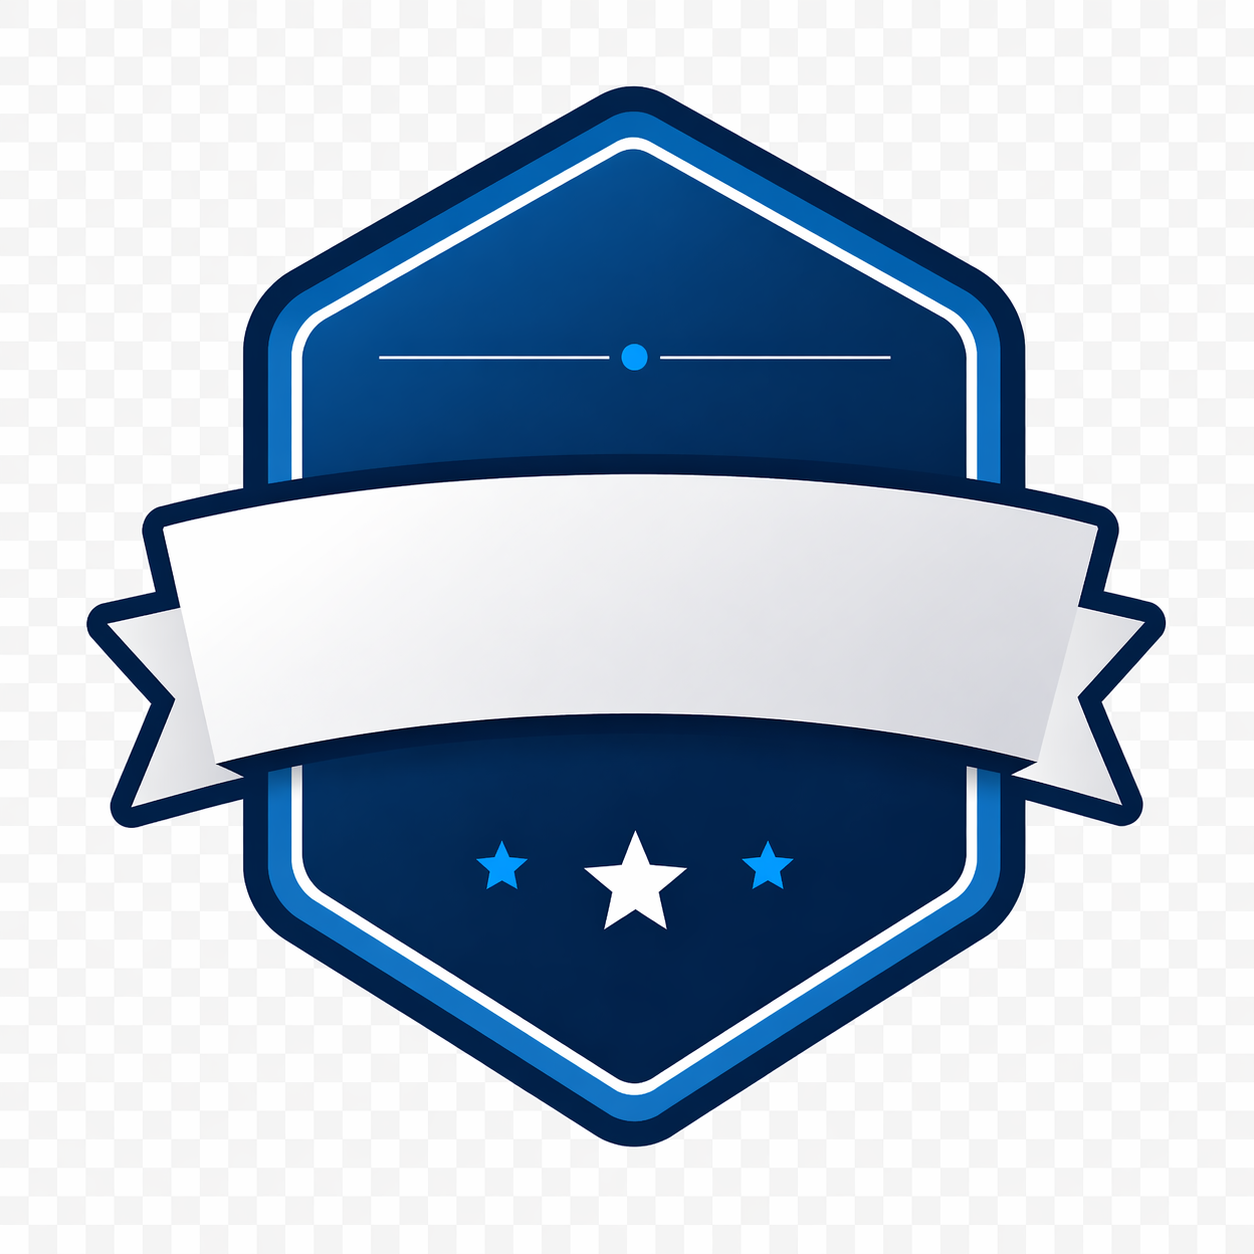
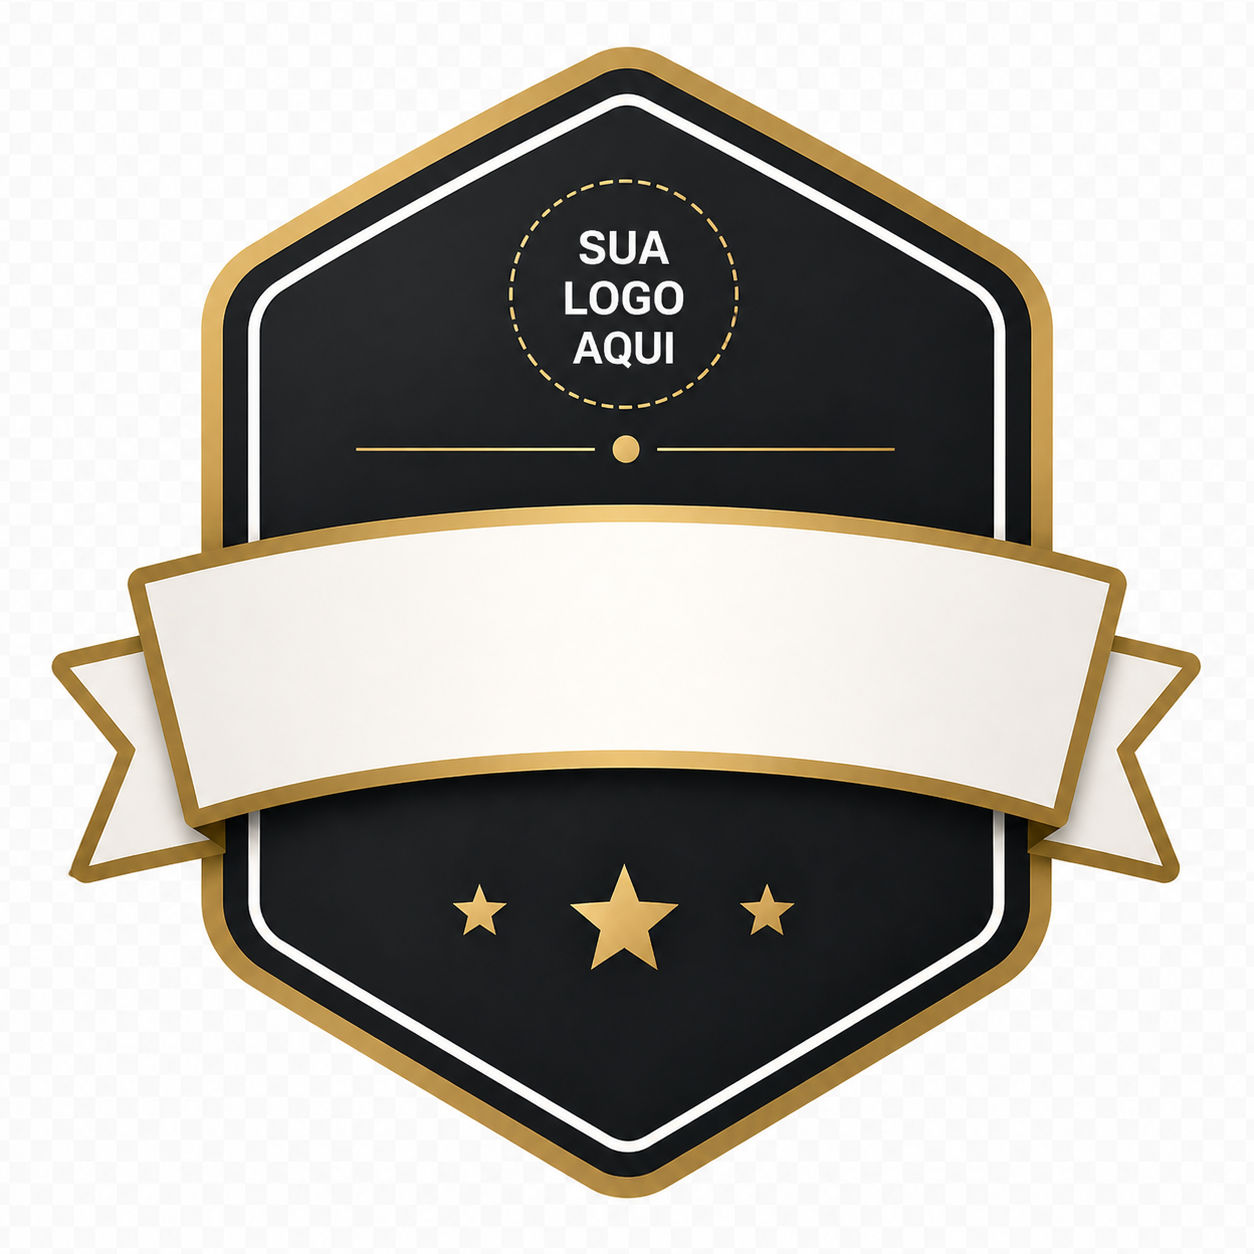
Support NTT templates and refactor template model
Remove inline logo rendering and refactor template model to support NTT-branded variants. BadgeImageGenerator: removed the block that drew logos (logo handling will be addressed elsewhere). BadgeTemplate: reordered fields, marked some legacy properties, and moved default text color/font settings; consolidated title/logo area properties. BadgeTemplateResolver: added new templates (template1_logo_NTT, template2_logo_NTT, default_logo_ntt), adjusted text/logo positions and default colors/sizes. Also updated several template PNGs and added new NTT-specific template images.

diff --git a/src/services/badge-catalog/BadgeCatalog.Adapters/Templates/BadgeTemplateResolver.cs b/src/services/badge-catalog/BadgeCatalog.Adapters/Templates/BadgeTemplateResolver.cs
@@ -6,16 +6,33 @@ public static class BadgeTemplateResolver
     {
         return templateId switch
         {
-           "template1" => new BadgeTemplate
+            "template1" => new BadgeTemplate
             {
                 Id = "template1",
                 BackgroundImage = "template1.png",
-                TextYPosition = 190,
+
+                TextYPosition = 210,
+
+                TitleAreaTop = 140,
+                TitleAreaHeight = 110,
+
                 DefaultTextColor = "#070707",
                 DefaultFontSize = 28,
-                LogoYPosition = 38,
-                LogoSize = 82,
-                DefaultLogoPath = "sua_logo_aqui_Transp.png"
+
+            },
+            "template1_logo_NTT" => new BadgeTemplate
+            {
+                Id = "template1_logo_NTT",
+                BackgroundImage = "template1_logo_ntt.png",
+
+                TextYPosition = 210,
+
+                TitleAreaTop = 140,
+                TitleAreaHeight = 110,
+
+                DefaultTextColor = "#070707",
+                DefaultFontSize = 28,
+
             },
 
             "template2" => new BadgeTemplate
@@ -25,9 +42,25 @@ public static class BadgeTemplateResolver
                 TextYPosition = 185,
                 DefaultTextColor = "#080808",
                 DefaultFontSize = 28,
-                LogoYPosition = 220,
-                LogoSize = 120,
-                DefaultLogoPath = "sua_logo_aqui_Transp.png"
+                LogoYPosition = 220
+            },
+            "template2_logo_NTT" => new BadgeTemplate
+            {
+                Id = "template2_logo_NTT",
+                BackgroundImage = "template2_logo_ntt.png",
+                TextYPosition = 185,
+                DefaultTextColor = "#080808",
+                DefaultFontSize = 28,
+                LogoYPosition = 220
+            },
+            "default_logo_ntt" => new BadgeTemplate
+            {
+                Id = "default_logo_ntt",
+                BackgroundImage = "default_logo_ntt.png",
+                TextYPosition = 210,
+                DefaultTextColor = "#0c0c0c",
+                DefaultFontSize = 28,
+                LogoYPosition = 60
             },
 
             _ => new BadgeTemplate
@@ -37,9 +70,7 @@ public static class BadgeTemplateResolver
                 TextYPosition = 210,
                 DefaultTextColor = "#0c0c0c",
                 DefaultFontSize = 28,
-                LogoYPosition = 60,
-                LogoSize = 110,
-                DefaultLogoPath = "sua_logo_aqui_Preto.png"
+                LogoYPosition = 60
             }
         };
     }

diff --git a/src/services/badge-catalog/BadgeCatalog.Adapters/Templates/BadgeTemplate.cs b/src/services/badge-catalog/BadgeCatalog.Adapters/Templates/BadgeTemplate.cs
@@ -3,20 +3,15 @@ namespace BadgeCatalog.Adapters.Templates;
 public class BadgeTemplate
 {
     public string Id { get; set; } = default!;
-
-    // estrutura
     public string BackgroundImage { get; set; } = default!;
-    public float TextYPosition { get; set; }
 
-    // estilo padrão (fallback)
-    public string DefaultTextColor { get; set; } = "#FFFFFF";
-    public int DefaultFontSize { get; set; } = 40;
+    // ❗ antigos (mantém por enquanto)
+    public float TextYPosition { get; set; }
     public float LogoYPosition { get; set; }
-    public int LogoSize { get; set; }
-    public string DefaultLogoPath { get; set; } = "sua_logo_aqui_Azul.png";
-    public float LogoAreaTop { get; set; }
-    public float LogoAreaHeight { get; set; }
+
     public float TitleAreaTop { get; set; }
     public float TitleAreaHeight { get; set; }
 
+    public string DefaultTextColor { get; set; } = "#FFFFFF";
+    public int DefaultFontSize { get; set; } = 40;
 }

diff --git a/src/services/badge-catalog/BadgeCatalog.Adapters/ImageGenerator/BadgeImageGenerator.cs b/src/services/badge-catalog/BadgeCatalog.Adapters/ImageGenerator/BadgeImageGenerator.cs
@@ -32,28 +32,6 @@ public class BadgeImageGenerator : IBadgeImageGenerator
         {
             canvas.Clear(SKColors.White);
         }
-        // 🔹 3.1 Desenhar logo (se existir)
-        var logoFile = data.LogoPath ?? template.DefaultLogoPath;
-
-        if (!string.IsNullOrEmpty(logoFile))
-        {
-            var logoPath = Path.Combine("wwwroot", "logos", logoFile);
-
-            if (File.Exists(logoPath))
-            {
-                using var logoBitmap = SKBitmap.Decode(logoPath);
-
-                var size = template.LogoSize;
-
-                var logoX = (width - size) / 2;
-                var logoY = template.LogoYPosition;
-
-                canvas.DrawBitmap(
-                    logoBitmap,
-                    new SKRect(logoX, logoY, logoX + size, logoY + size)
-                );
-            }
-        }
 
         // 🔹 4. Configurar texto
         using var textPaint = new SKPaint
